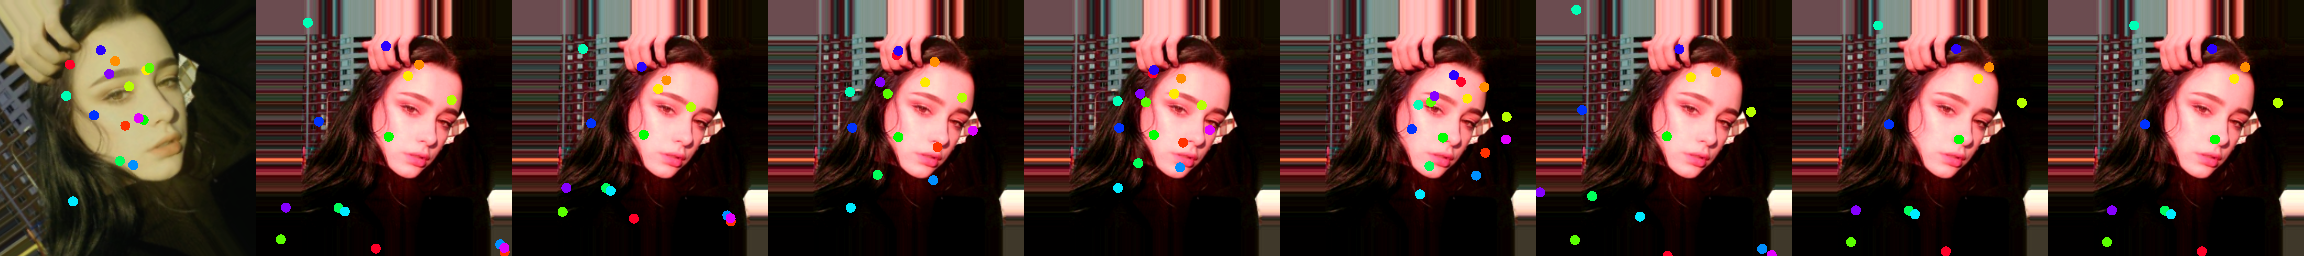
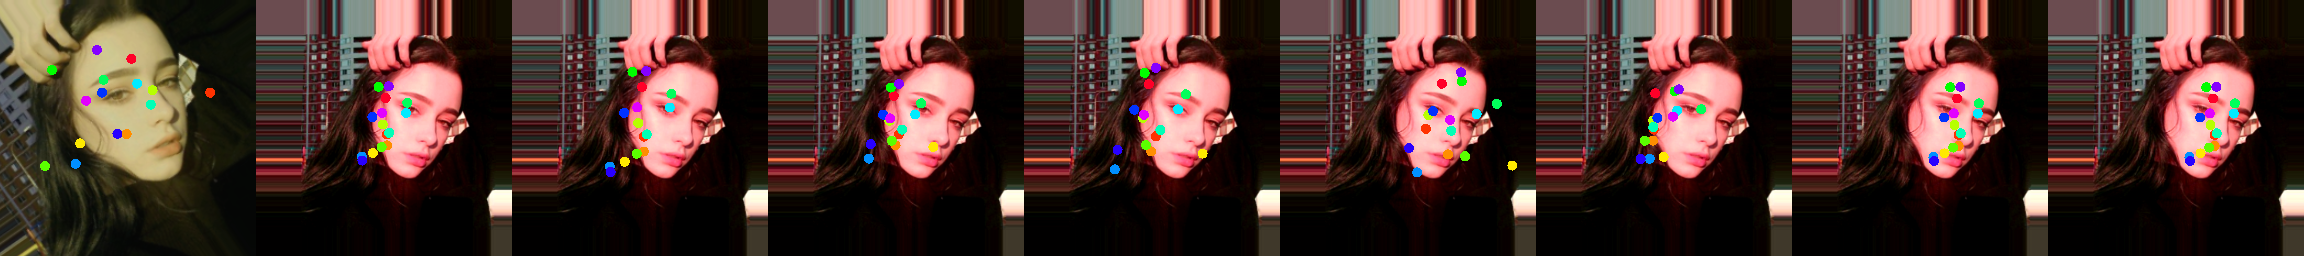
draw kp and gd

diff --git a/draw_kp.py b/draw_kp.py
@@ -248,17 +248,32 @@ def demo(args):
             # delta = delta
             delta_d, _, _, _, _ = g_models["efe"](img, None, kp_c)
             kp_d1 = kp_c
-            kp_d2, Rd = transform_kp(kp_c, yaw*0, pitch*0, roll*0, t*0, scale)
-            kp_d3 = kp_c + delta_d
-            kp_d4, Rd = transform_kp(kp_c + delta_d, yaw*0, pitch*0, roll*0, t*0, scale)
-            kp_d5, Rd = transform_kp(kp_c + delta_d, yaw, pitch, roll, t, scale)
-            kp_d6, Rd = transform_kp(kp_c + delta_d*0, yaw, pitch, roll, t*0, scale=1)
-            kp_d7, Rd = transform_kp(kp_c + delta_d*0, yaw*0, pitch*0, roll*0, t, scale=1)
-            kp_d8 = kp_d7
-
+            kp_d2 = kp_c + delta_d
+            kp_d3, Rd3 = transform_kp(kp_c + delta_d, yaw*0, pitch*0, roll*0, t*0, scale)
+            kp_d4, Rd4= transform_kp(kp_c + delta_d, yaw, pitch, roll, t*0, scale)
+            kp_d5, Rd5 = transform_kp(kp_c + delta_d, yaw, pitch, roll, t, scale)
+            kp_d6, Rd6 = transform_kp(kp_c, yaw, pitch, roll, t, scale)
+            kp_d7, Rd7 = kp_d6 + transform_kp(delta_d, yaw, pitch, roll, t*0, scale)[0], Rd6
+            kp_d8, Rd8 = transform_kp(kp_c + delta_d, yaw, pitch, roll, t, scale=1)
 
             # deformation, occlusion, mask = g_models["mfe"](fs, kp_s, kp_d8, Rs, Rd)
             # generated_d = g_models["generator"](fs, deformation, occlusion)
+            deformation, occlusion, _ = g_models["mfe"](fs, kp_s, kp_d1, Rs, Rd3)
+            generated_d1 = g_models["generator"](fs, deformation, occlusion)
+            deformation, occlusion, _ = g_models["mfe"](fs, kp_s, kp_d2, Rs, Rd3)
+            generated_d2 = g_models["generator"](fs, deformation, occlusion)
+            deformation, occlusion, _ = g_models["mfe"](fs, kp_s, kp_d3, Rs, Rd3)
+            generated_d3 = g_models["generator"](fs, deformation, occlusion)	
+            deformation, occlusion, _ = g_models["mfe"](fs, kp_s, kp_d4, Rs, Rd4)
+            generated_d4 = g_models["generator"](fs, deformation, occlusion)
+            deformation, occlusion, _ = g_models["mfe"](fs, kp_s, kp_d5, Rs, Rd5)
+            generated_d5 = g_models["generator"](fs, deformation, occlusion)
+            deformation, occlusion, _ = g_models["mfe"](fs, kp_s, kp_d6, Rs, Rd6)
+            generated_d6 = g_models["generator"](fs, deformation, occlusion)
+            deformation, occlusion, _ = g_models["mfe"](fs, kp_s, kp_d7, Rs, Rd7)
+            generated_d7 = g_models["generator"](fs, deformation, occlusion)
+            deformation, occlusion, _ = g_models["mfe"](fs, kp_s, kp_d8, Rs, Rd8)
+            generated_d8 = g_models["generator"](fs, deformation, occlusion)
 
             s_np = s.data.cpu()
             kp_s_np = kp_s.data.cpu().numpy()[:, :, :2]
@@ -287,6 +302,23 @@ def demo(args):
         
         # os.makedirs(dirpath+'out', exist_ok=True)
         # out_path = os.path.join(dirpath+'out', filename)
+            generated_d1_np = generated_d1.data.cpu().numpy().transpose([0, 2, 3, 1])
+            generated_d2_np = generated_d2.data.cpu().numpy().transpose([0, 2, 3, 1])
+            generated_d3_np = generated_d3.data.cpu().numpy().transpose([0, 2, 3, 1])
+            generated_d4_np = generated_d4.data.cpu().numpy().transpose([0, 2, 3, 1])
+            generated_d5_np = generated_d5.data.cpu().numpy().transpose([0, 2, 3, 1])
+            generated_d6_np = generated_d6.data.cpu().numpy().transpose([0, 2, 3, 1])
+            generated_d7_np = generated_d7.data.cpu().numpy().transpose([0, 2, 3, 1])
+            generated_d8_np = generated_d8.data.cpu().numpy().transpose([0, 2, 3, 1])
+            img_d = [(generated_d1_np, kp_d1_np), (generated_d2_np, kp_d2_np), (generated_d3_np, kp_d3_np), 
+                    (generated_d4_np, kp_d4_np), (generated_d5_np, kp_d5_np), (generated_d6_np, kp_d6_np),
+                    (generated_d7_np, kp_d7_np), (generated_d8_np, kp_d8_np)]
+
+            img_d = vs.create_image_grid(*img_d)
+            img_d = (255 * img_d).astype(np.uint8)
+            imageio.imwrite(os.path.dirname(dri) + '_kp_out' + '/' + f'{idx}_d_'+os.path.basename(dri), img_d)
+
+            
 
 if __name__ == "__main__":
     parser = argparse.ArgumentParser(description="face-vid2vid")
@@ -294,11 +326,11 @@ if __name__ == "__main__":
     def str2bool(s):
         return s.lower().startswith("t")
 
-    parser.add_argument("--ckp_dir", type=str, default="ckp", help="Checkpoint dir")
+    parser.add_argument("--ckp_dir", type=str, default="ckp_1644_main8.1", help="Checkpoint dir")
     parser.add_argument("--output", type=str, default="output.gif", help="Output video")
-    parser.add_argument("--ckp", type=int, default=13, help="Checkpoint epoch")
-    parser.add_argument("--source", type=str, default="./kp_s", help="Source image, f for face frontalization, r for reconstruction")
-    parser.add_argument("--driving", type=str, default='./kp_d/d', help="Driving dir")
+    parser.add_argument("--ckp", type=int, default=10, help="Checkpoint epoch")
+    parser.add_argument("--source", type=str, default="./kp_d/d", help="Source image, f for face frontalization, r for reconstruction")
+    parser.add_argument("--driving", type=str, default='./kp_s', help="Driving dir")
     parser.add_argument("--num_frames", type=int, default=90, help="Number of frames")
 
     args = parser.parse_args()
